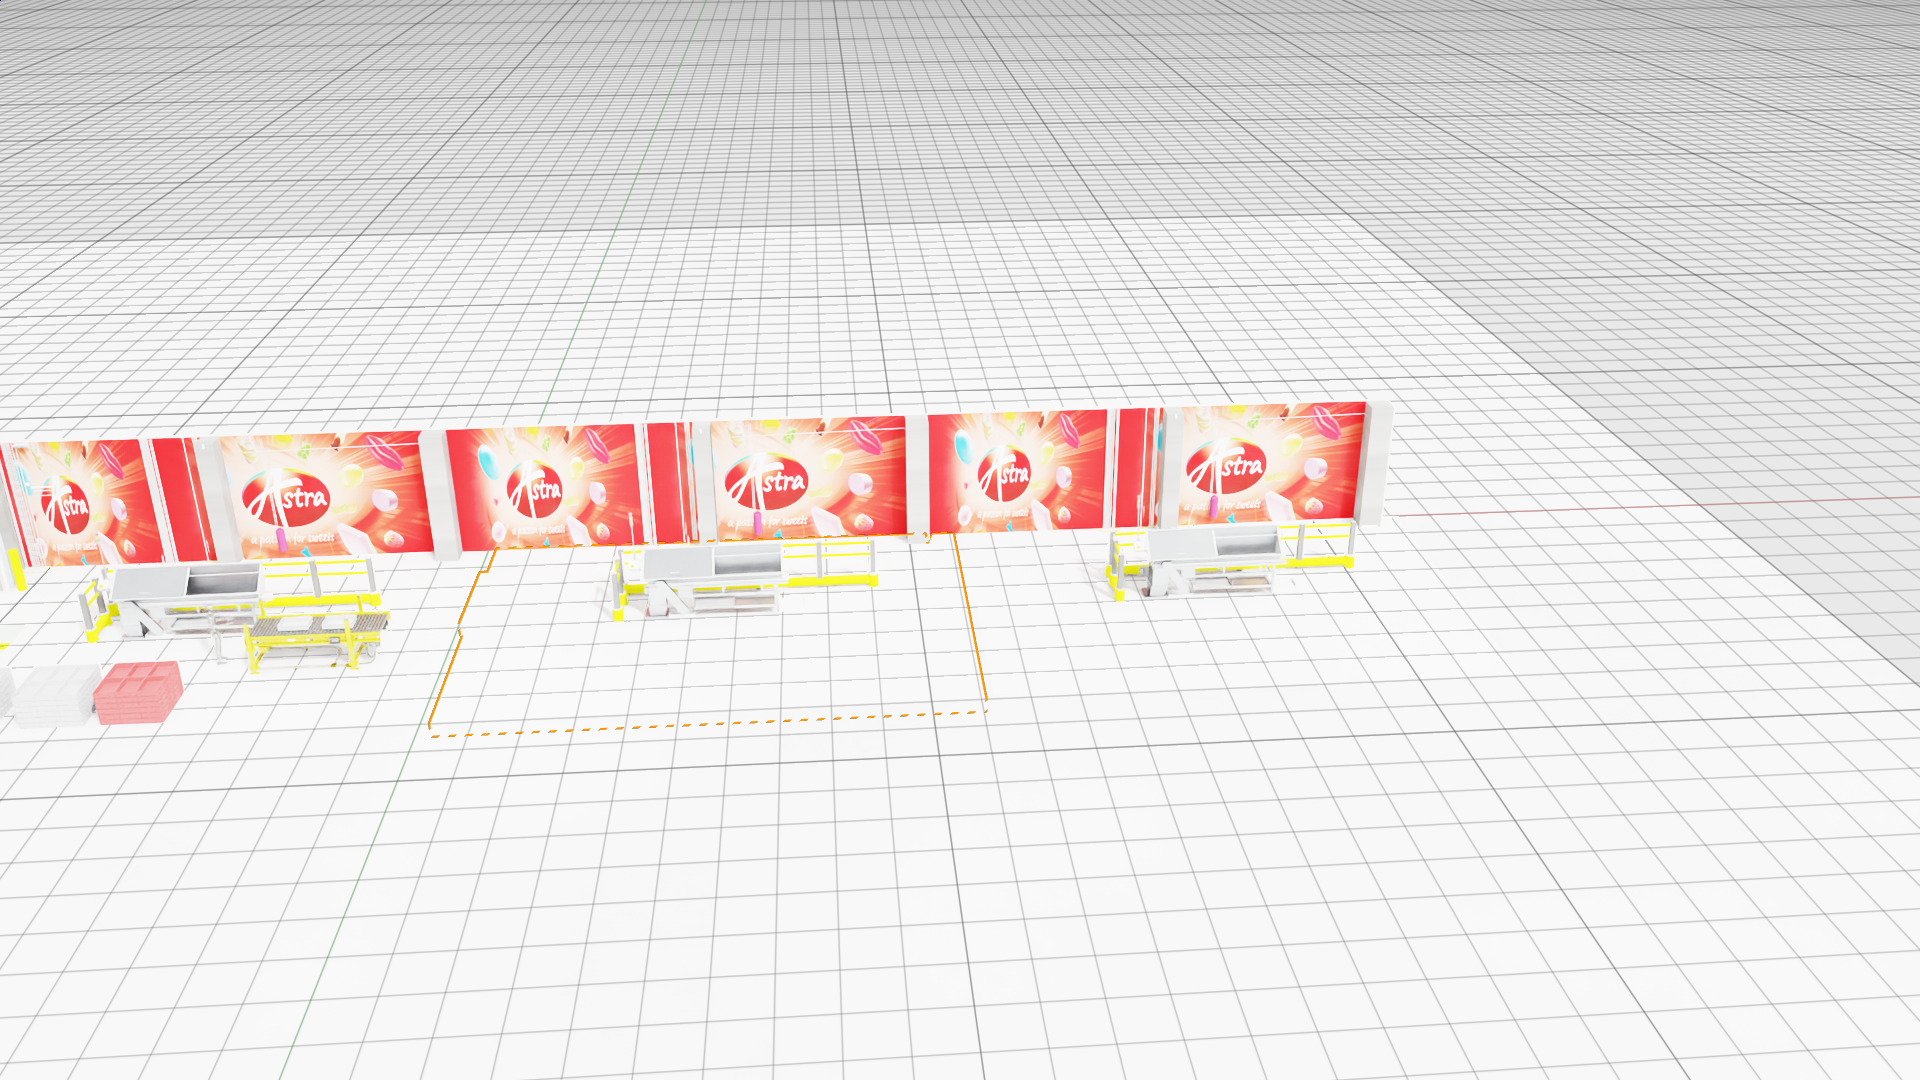
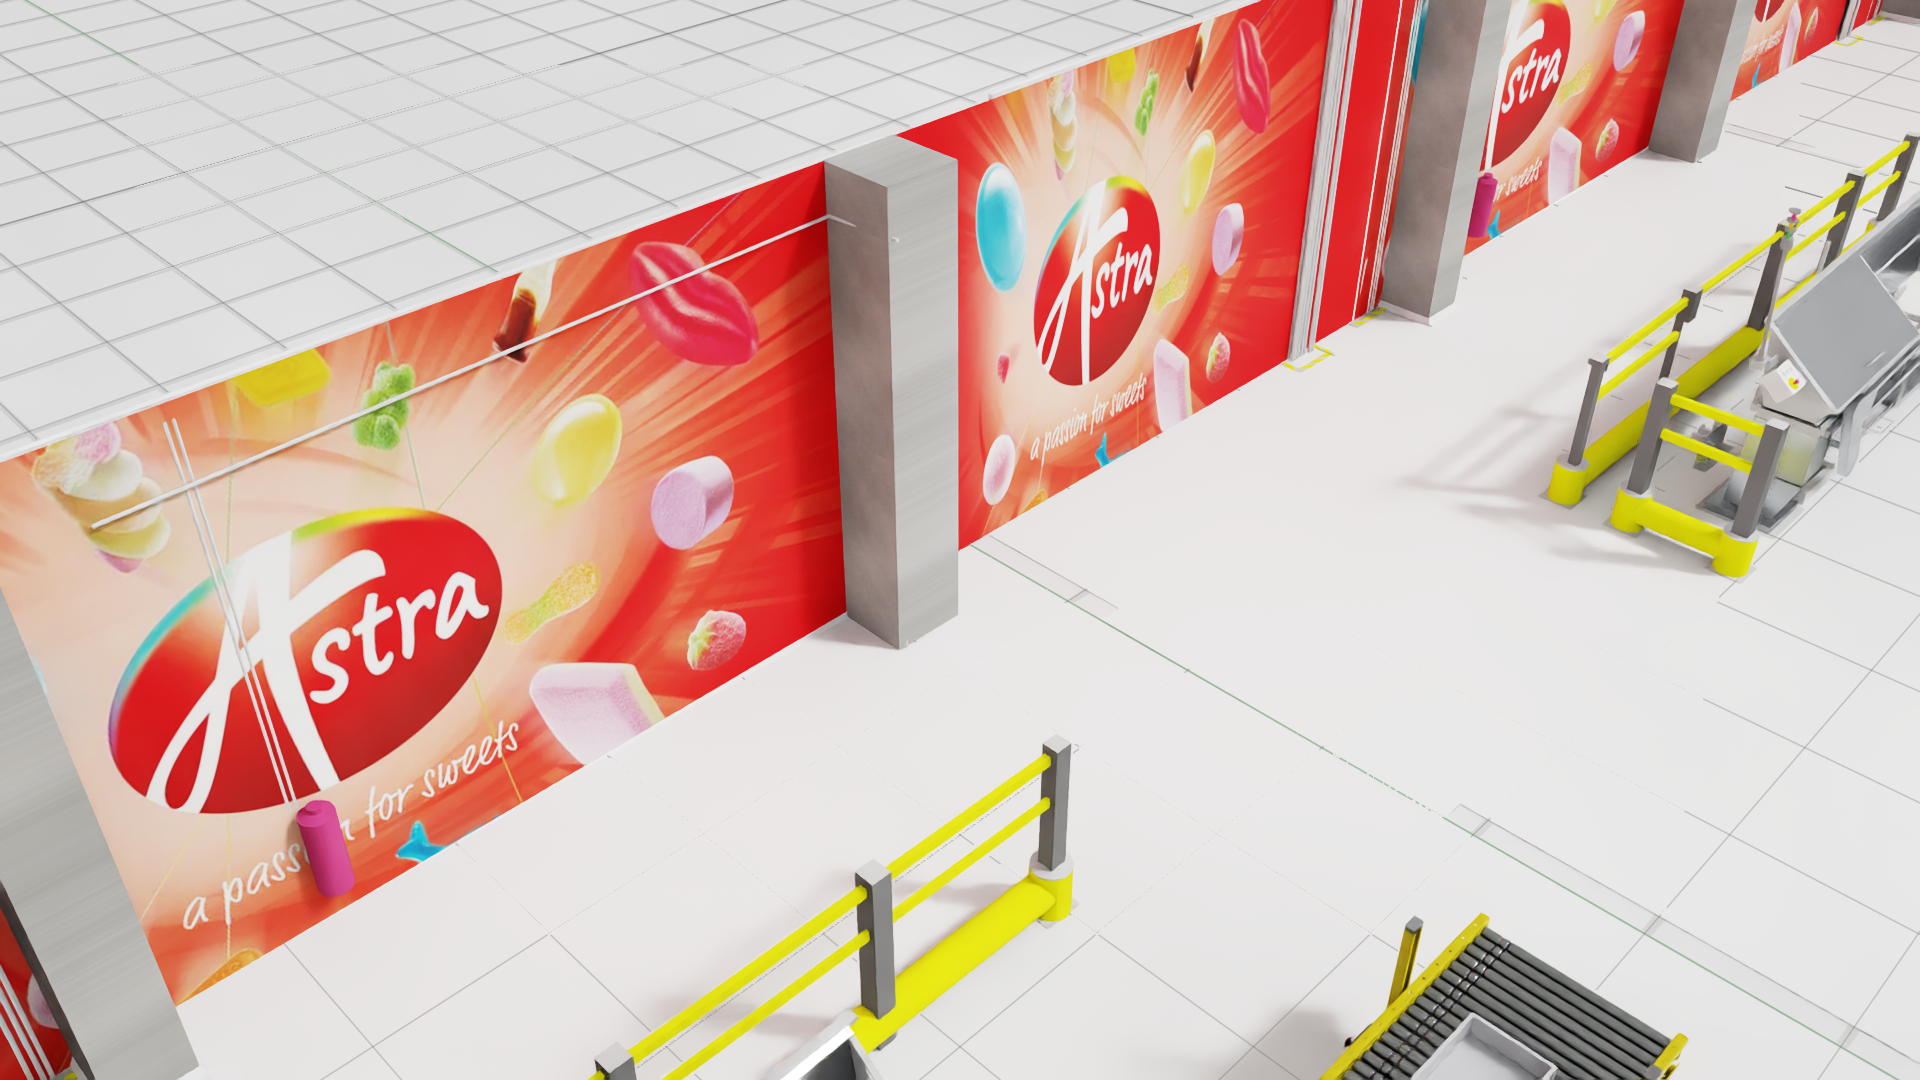
Soften the lighting to match the supplier's reference render
The first pass (dome 1200 / key 2500, 1 degree) blew the whites out and washed
the wall artwork flat. Dialled back to dome 320 / key 900 and widened the key
light to 6 degrees -- a distant light's angular size drives shadow softness, so
1 degree was giving razor-sharp CG shadows where the reference has diffuse ones.

Blown highlights (>250) now measure 0.0%. Values are named constants
(DOME_INTENSITY / KEY_INTENSITY / KEY_ANGLE) at the top of the build script.

Claude-Session: https://claude.ai/code/session_017P7SsfzffvHMhbZdvj9CsN

diff --git a/scripts/build_astra_scene.py b/scripts/build_astra_scene.py
@@ -308,6 +308,13 @@ CONCRETE_MESHES = (
 )
 METAL_RGB = (0.56, 0.57, 0.58)
 METAL_ROUGHNESS = 0.28
+
+# Lighting. The first pass at 1200/2500 blew the whites out; the supplier's
+# reference render is much softer, so these are dialled back and the key light is
+# widened (a bigger angular size = softer shadow edges).
+DOME_INTENSITY = 320.0
+KEY_INTENSITY = 900.0
+KEY_ANGLE = 6.0        # degrees of angular size; 1.0 gives hard, crisp shadows
 # The A08 frame is painted with a material *named* Blue; it covers 38.6% of the model
 # (rails, uprights, cross-braces, feet). The rest are small frame details.
 CONVEYOR_FRAME_MATERIALS = (
@@ -564,10 +571,10 @@ async def _run():
 
     # ---- lighting ------------------------------------------------------
     dome = UsdLux.DomeLight.Define(stage, Sdf.Path("/World/DomeLight"))
-    dome.GetIntensityAttr().Set(1200.0)
+    dome.GetIntensityAttr().Set(DOME_INTENSITY)
     key = UsdLux.DistantLight.Define(stage, Sdf.Path("/World/KeyLight"))
-    key.GetIntensityAttr().Set(2500.0)
-    key.GetAngleAttr().Set(1.0)
+    key.GetIntensityAttr().Set(KEY_INTENSITY)
+    key.GetAngleAttr().Set(KEY_ANGLE)
     UsdGeom.Xformable(key.GetPrim()).AddRotateXYZOp().Set(Gf.Vec3f(-45.0, 0.0, 35.0))
     carb.log_warn("[build] lighting")
 
@@ -913,8 +920,8 @@ async def _run():
     # Mesh_017 (the branded back wall) sits at y~0 after the origin shift, so stand
     # inside the room and look back at it with the station in the foreground.
     # both workspaces: the copy extends to -11.08, so frame the whole run
-    centre = Gf.Vec3d(-11.0, 3.0, 1.2)
-    eye = Gf.Vec3d(-9.0, 26.0, 12.0)
+    centre = Gf.Vec3d(4.4, 4.2, 0.9)
+    eye = Gf.Vec3d(7.6, 8.5, 2.6)
     st = ViewportCameraState("/OmniverseKit_Persp", get_active_viewport())
     st.set_position_world(eye, True)
     st.set_target_world(centre, True)
